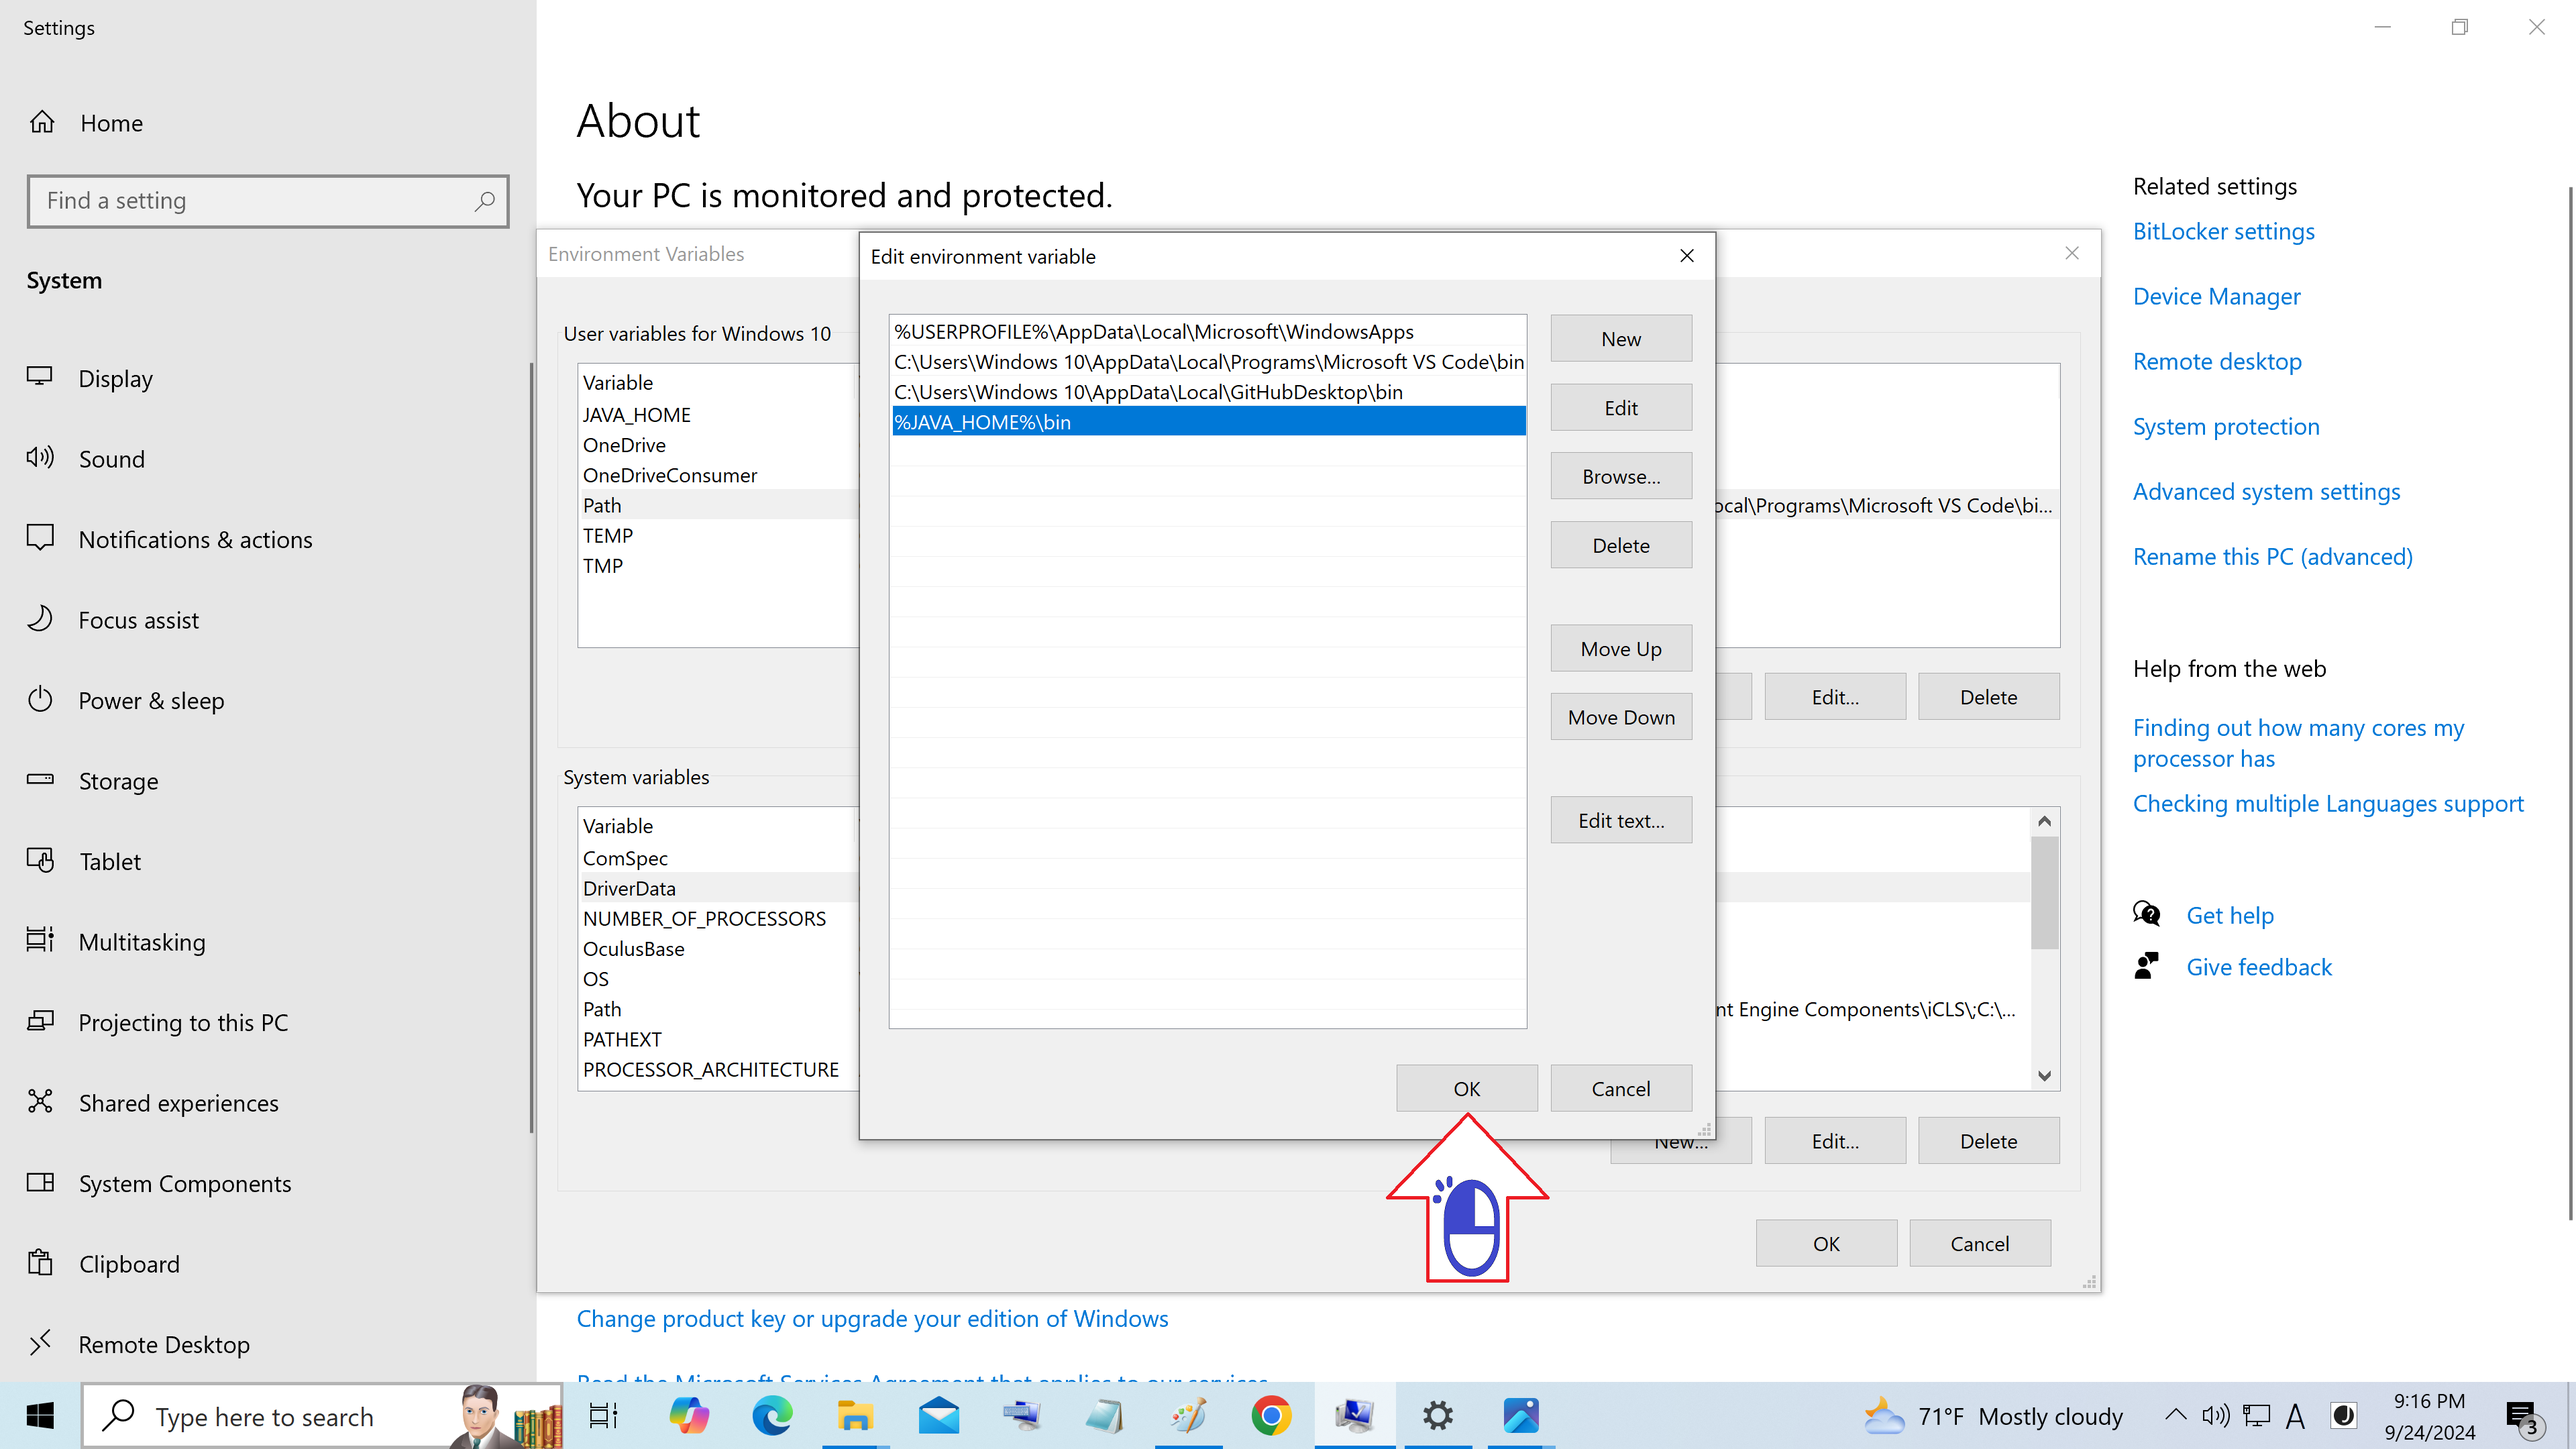
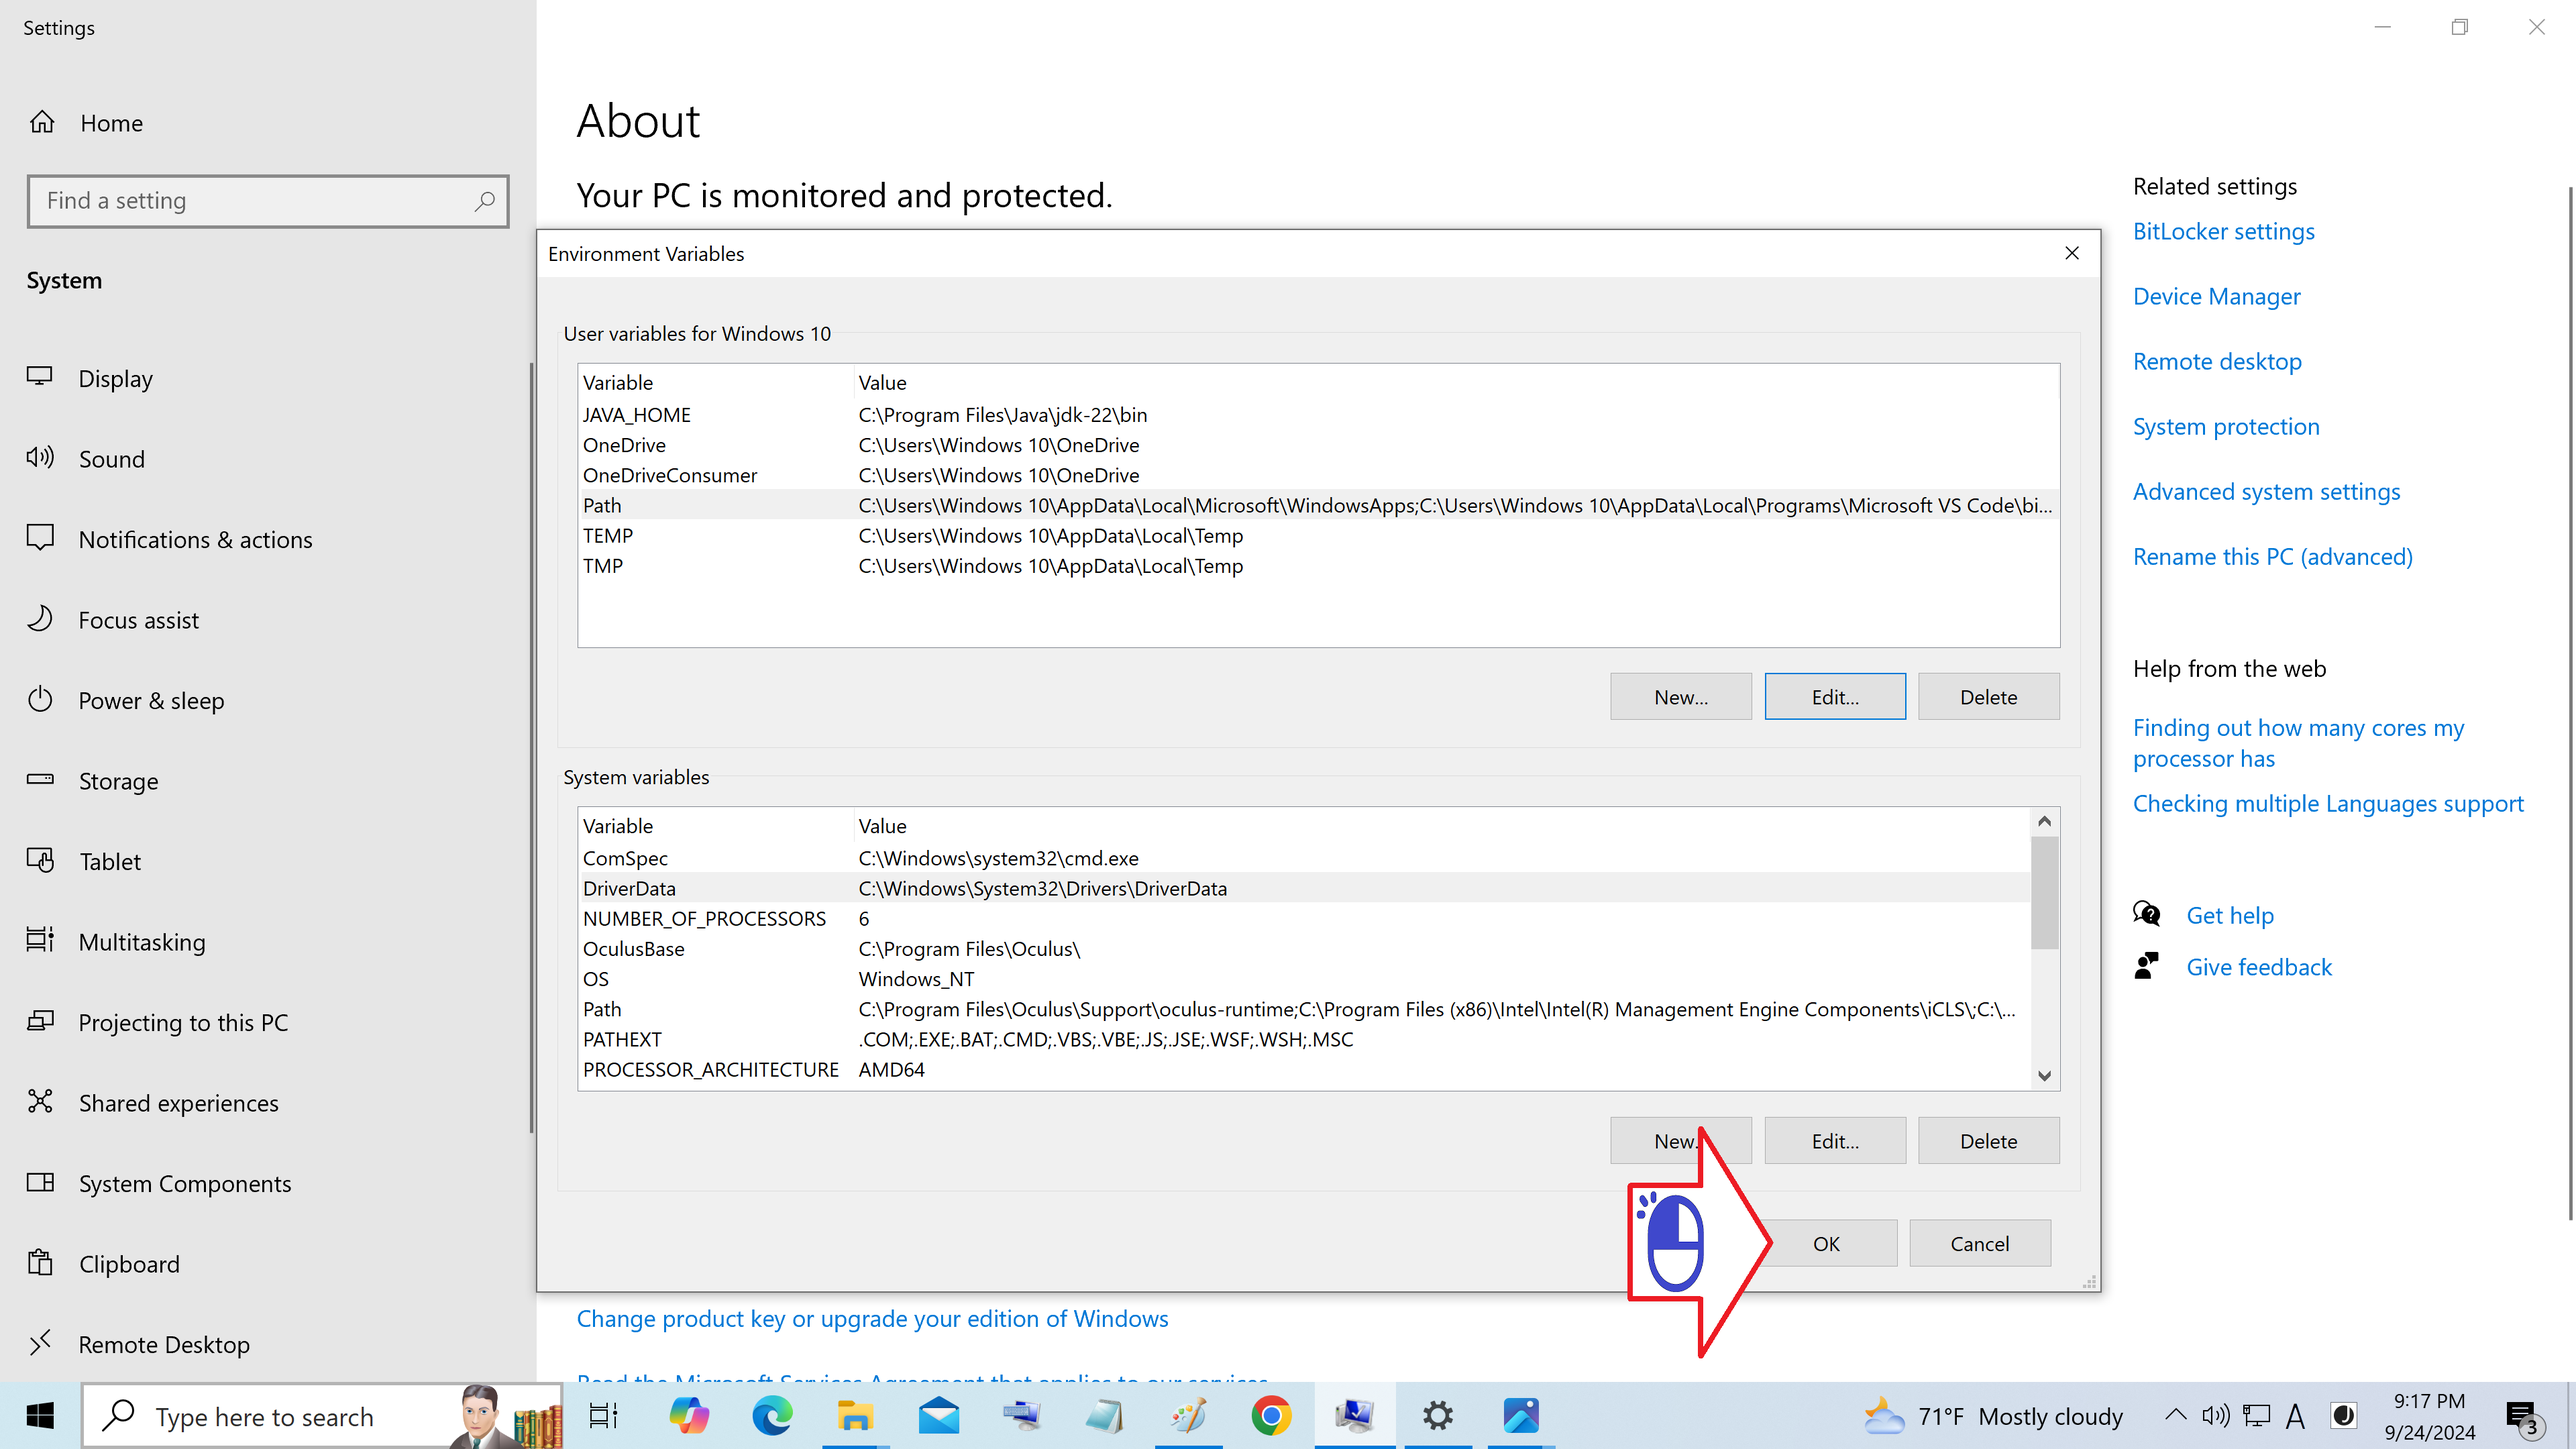
Alterei imagem edite java home bin e coloquei ok juntos

diff --git a/README-Home-Usuario-modo2-jp.md b/README-Home-Usuario-modo2-jp.md
@@ -51,14 +51,14 @@
 ![](Imagens/Windows-Java-Home-Usuario-Modo2-Img08.png)
 
 <div align="center">
-絵 09 - Clique New
+絵 09 - 「New」をクリックします
 </div>
 
 ![](Imagens/Windows-Java-Home-Usuario-Modo2-Img09.png)
 
 
 <div align="center">
-絵 10 - Digite %JAVA_HOME%\bin
+絵 10 - %JAVA_HOME%\binと入力して「OK」をクリックします
 </div>
 
 ![](Imagens/Windows-Java-Home-Usuario-Modo2-Img10.png)
@@ -68,9 +68,3 @@
 </div>
 
 ![](Imagens/Windows-Java-Home-Usuario-Modo2-Img11.png)
-
-<div align="center">
-絵 12 - 「OK」をクリックします
-</div>
-
-![](Imagens/Windows-Java-Home-Usuario-Modo2-Img12.png)

diff --git a/README-Home-Usuario-modo2-br-pt.md b/README-Home-Usuario-modo2-br-pt.md
@@ -58,7 +58,7 @@ Figura 09 - Clique New
 
 
 <div align="center">
-Figura 10 - Digite %JAVA_HOME%\bin
+Figura 10 - Digite %JAVA_HOME%\bin e clique OK
 </div>
 
 ![](Imagens/Windows-Java-Home-Usuario-Modo2-Img10.png)
@@ -68,9 +68,3 @@ Figura 11 - Clique OK
 </div>
 
 ![](Imagens/Windows-Java-Home-Usuario-Modo2-Img11.png)
-
-<div align="center">
-Figura 12 - Clique OK
-</div>
-
-![](Imagens/Windows-Java-Home-Usuario-Modo2-Img12.png)
